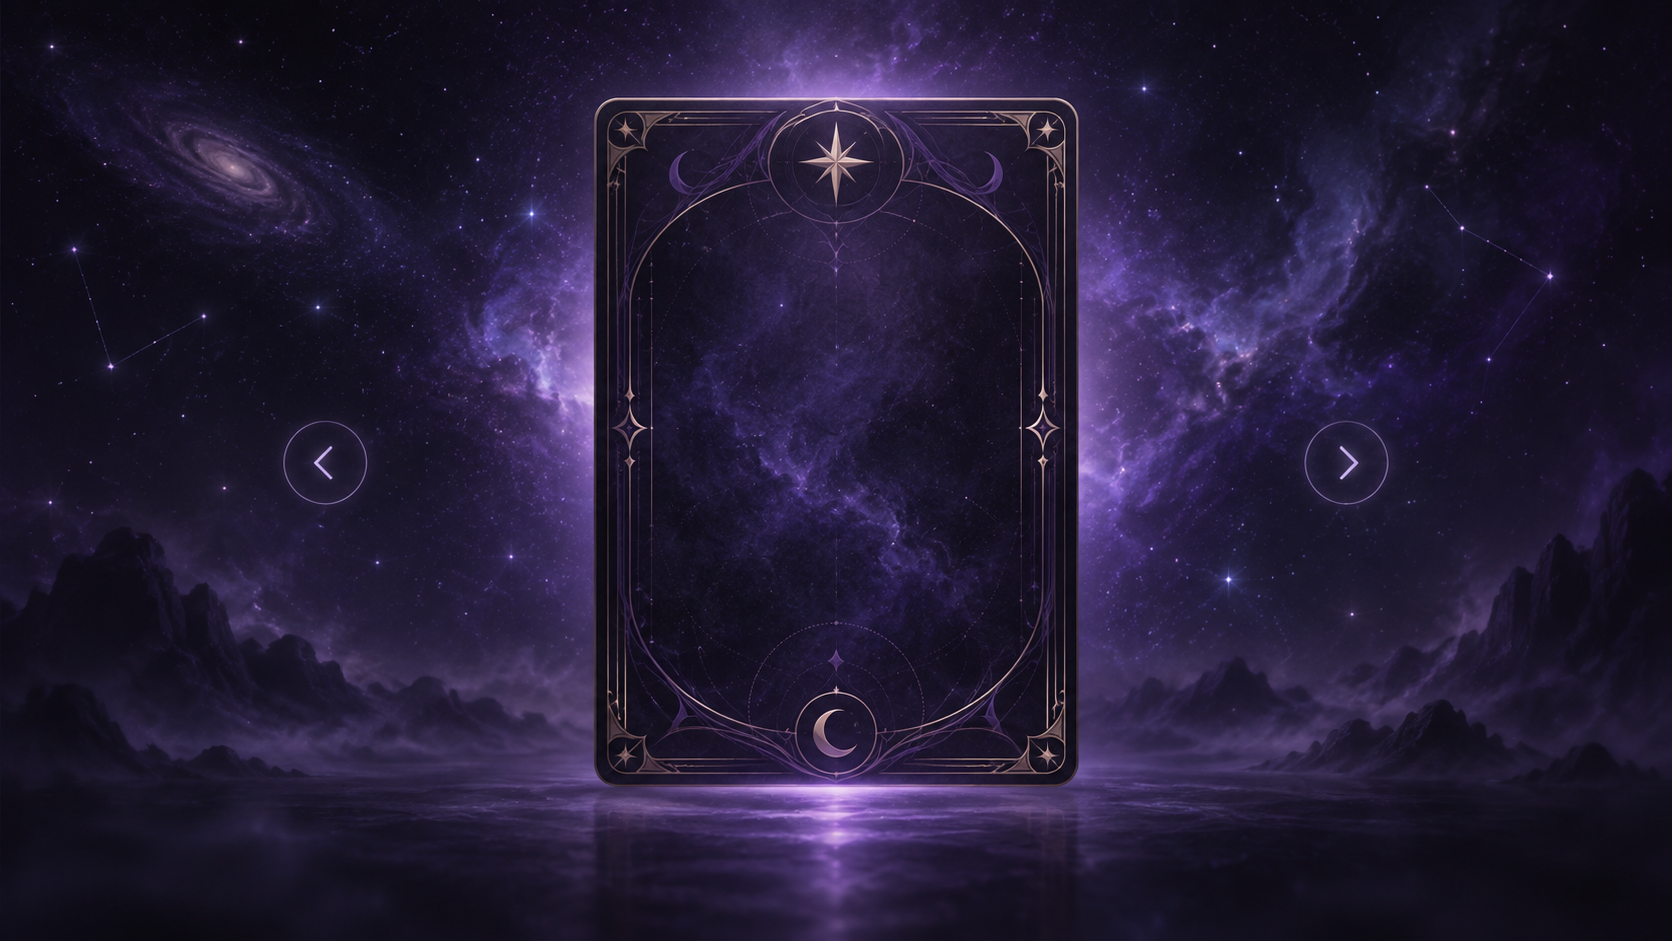
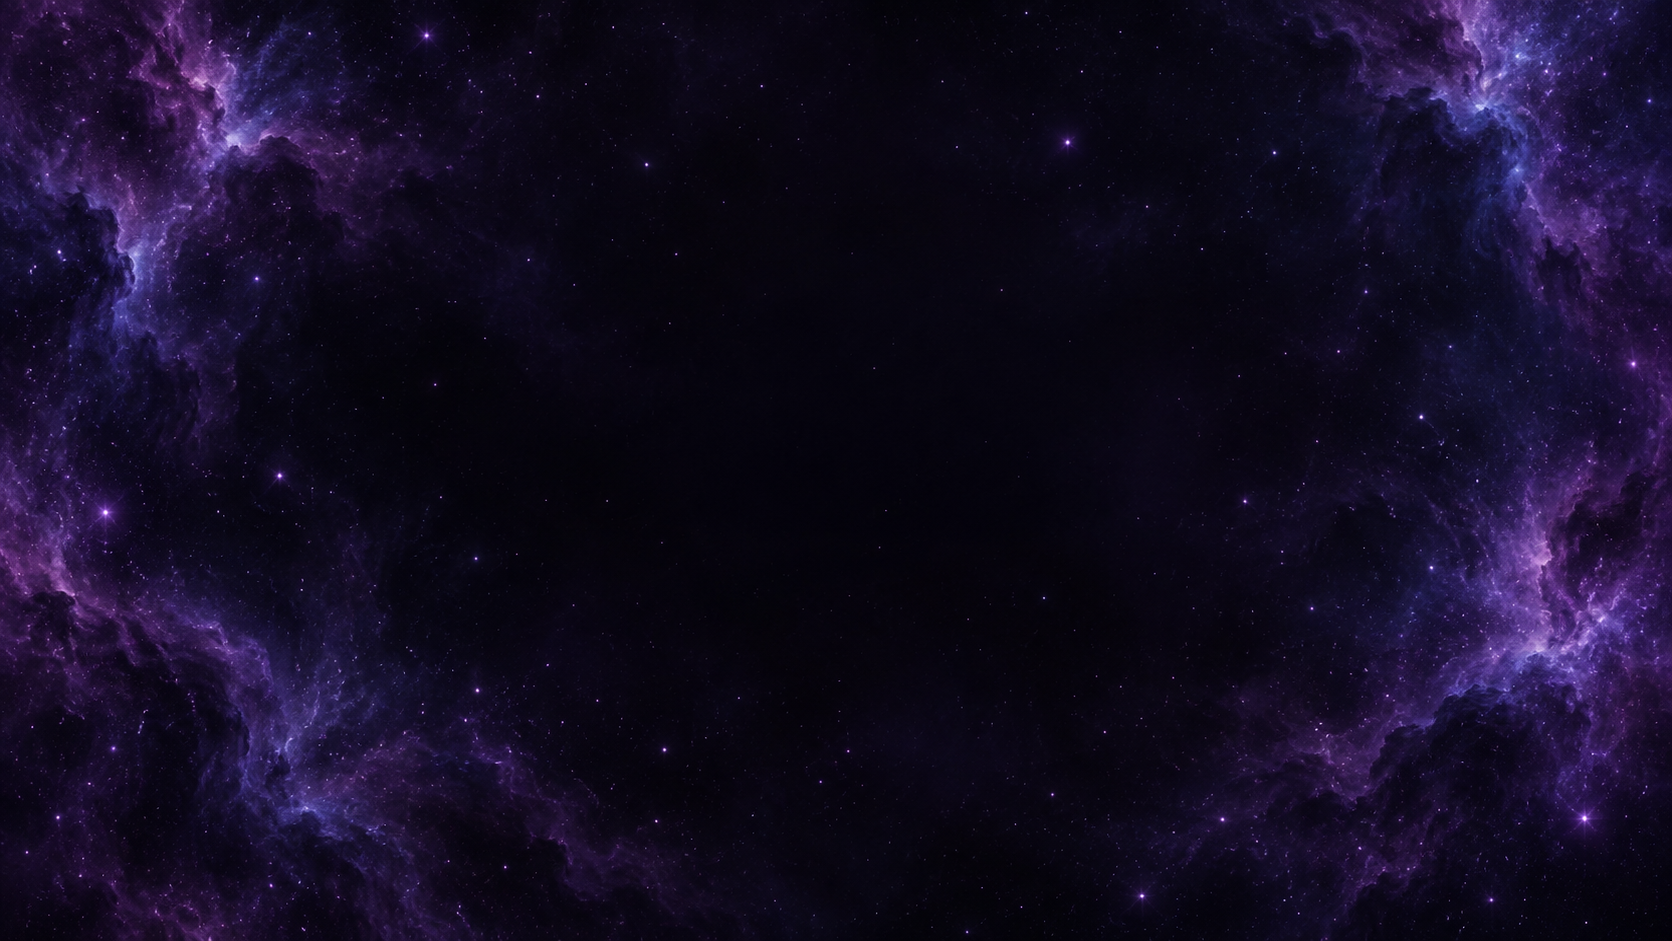
fix: simplify gallery nebula backdrop

diff --git a/gallery/style.css b/gallery/style.css
@@ -11,7 +11,7 @@ html, body { height: 100%; margin: 0; }
 body {
   min-height: 100%;
   overflow: hidden;
-  background: #080718 url("./assets/violet-starfield.png") center / 180% auto no-repeat;
+  background: #080718 url("./assets/violet-starfield.png") center / cover no-repeat;
 }
 
 button { font: inherit; }
@@ -76,10 +76,15 @@ button { font: inherit; }
   inset: 0;
   content: "";
   pointer-events: none;
-  background: url("./assets/violet-starfield.png") center / 180% auto no-repeat;
-  opacity: .96;
-  -webkit-mask-image: radial-gradient(ellipse 46% 74% at 50% 50%, transparent 0 43%, #000 70%);
-  mask-image: radial-gradient(ellipse 46% 74% at 50% 50%, transparent 0 43%, #000 70%);
+  background: url("./assets/violet-starfield.png") center / cover no-repeat;
+  opacity: .98;
+  -webkit-mask-image: radial-gradient(ellipse 35% 62% at 50% 50%, transparent 0 72%, #000 100%);
+  mask-image: radial-gradient(ellipse 35% 62% at 50% 50%, transparent 0 72%, #000 100%);
+}
+
+html[data-card-mode="lenticular"] .viewer::after {
+  -webkit-mask-image: radial-gradient(ellipse 58% 38% at 50% 50%, transparent 0 72%, #000 100%);
+  mask-image: radial-gradient(ellipse 58% 38% at 50% 50%, transparent 0 72%, #000 100%);
 }
 
 .frame-wrap {
@@ -90,7 +95,7 @@ button { font: inherit; }
   overflow: hidden;
   border: 0;
   border-radius: 0;
-  background: #080718 url("./assets/violet-starfield.png") center / 180% auto no-repeat;
+  background: #080718 url("./assets/violet-starfield.png") center / cover no-repeat;
   box-shadow: none;
 }
 
@@ -106,7 +111,7 @@ button { font: inherit; }
   color: #e9ddff;
   font-size: 13px;
   letter-spacing: .06em;
-  background: rgb(8 7 24 / 82%) url("./assets/violet-starfield.png") center / 180% auto no-repeat;
+  background: rgb(8 7 24 / 92%) url("./assets/violet-starfield.png") center / cover no-repeat;
   transition: opacity 160ms ease;
 }
 
@@ -193,8 +198,12 @@ button { font: inherit; }
     opacity: .96;
   }
   .viewer::after {
-    -webkit-mask-image: radial-gradient(ellipse 58% 66% at 50% 50%, transparent 0 44%, #000 74%);
-    mask-image: radial-gradient(ellipse 58% 66% at 50% 50%, transparent 0 44%, #000 74%);
+    -webkit-mask-image: radial-gradient(ellipse 44% 62% at 50% 50%, transparent 0 72%, #000 100%);
+    mask-image: radial-gradient(ellipse 44% 62% at 50% 50%, transparent 0 72%, #000 100%);
+  }
+  html[data-card-mode="lenticular"] .viewer::after {
+    -webkit-mask-image: radial-gradient(ellipse 70% 42% at 50% 50%, transparent 0 72%, #000 100%);
+    mask-image: radial-gradient(ellipse 70% 42% at 50% 50%, transparent 0 72%, #000 100%);
   }
   .navigation-previous { left: 10px; }
   .navigation-next { right: 10px; }

diff --git a/gallery/app.js b/gallery/app.js
@@ -92,6 +92,43 @@
     });
   };
 
+  const setShowcaseClearColor = () => {
+    const deadline = performance.now() + 2200;
+    const apply = () => {
+      const renderer = frame.contentWindow?.__holo?.renderer;
+      if (renderer?.setClearColor) renderer.setClearColor('#090719', 1);
+
+      const canvas = frame.contentDocument?.querySelector('canvas');
+      const context = canvas?.getContext('webgl2') || canvas?.getContext('webgl');
+      if (context && !canvas.dataset.showcaseClearColor) {
+        const clearColor = context.clearColor.bind(context);
+        context.clearColor = (_red, _green, _blue, alpha) => clearColor(0.035, 0.027, 0.098, alpha);
+        context.clearColor(0.035, 0.027, 0.098, 1);
+        canvas.dataset.showcaseClearColor = 'true';
+        return;
+      }
+      if (performance.now() < deadline) window.setTimeout(apply, 80);
+    };
+    apply();
+  };
+
+  const waitForCardRender = () => new Promise((resolve) => {
+    const deadline = performance.now() + 5000;
+    const check = () => {
+      const frameDocument = frame.contentDocument;
+      if (frameDocument && !frameDocument.querySelector('#loading')) {
+        resolve();
+        return;
+      }
+      if (performance.now() >= deadline) {
+        resolve();
+        return;
+      }
+      window.setTimeout(check, 80);
+    };
+    check();
+  });
+
   const prepareLeoEntrance = () => new Promise((resolve) => {
     if (cards[activeIndex]?.id !== 'leo-pizza') {
       resolve(null);
@@ -125,6 +162,7 @@
     touchStart = null;
     title.textContent = card.title;
     position.textContent = `${String(activeIndex + 1).padStart(2, '0')} / ${String(cards.length).padStart(2, '0')}`;
+    document.documentElement.dataset.cardMode = card.mode;
     frame.title = `${card.title} 卡片`;
     previous.disabled = false;
     next.disabled = false;
@@ -138,6 +176,8 @@
   next.addEventListener('click', () => goTo(activeIndex + 1));
   frame.addEventListener('load', async () => {
     await applyFrameShowcase();
+    await waitForCardRender();
+    setShowcaseClearColor();
     const revealLeoFront = await prepareLeoEntrance();
     frame.classList.add('is-ready');
     loading.classList.add('is-hidden');

diff --git a/gallery/index.html b/gallery/index.html
@@ -5,7 +5,7 @@
     <meta name="viewport" content="width=device-width, initial-scale=1" />
     <meta name="theme-color" content="#080718" />
     <title>卡片典藏</title>
-    <link rel="stylesheet" href="./style.css?rev=20260914-cosmic-loop2" />
+    <link rel="stylesheet" href="./style.css?rev=20260914-nebula-clean" />
   </head>
   <body>
     <header class="archive-header">
@@ -41,6 +41,6 @@
       <p class="mobile-hint">在卡面空白处向左或向右滑动以切换</p>
     </footer>
 
-    <script src="./app.js?rev=20260914-pages-path"></script>
+    <script src="./app.js?rev=20260914-nebula-render"></script>
   </body>
 </html>
